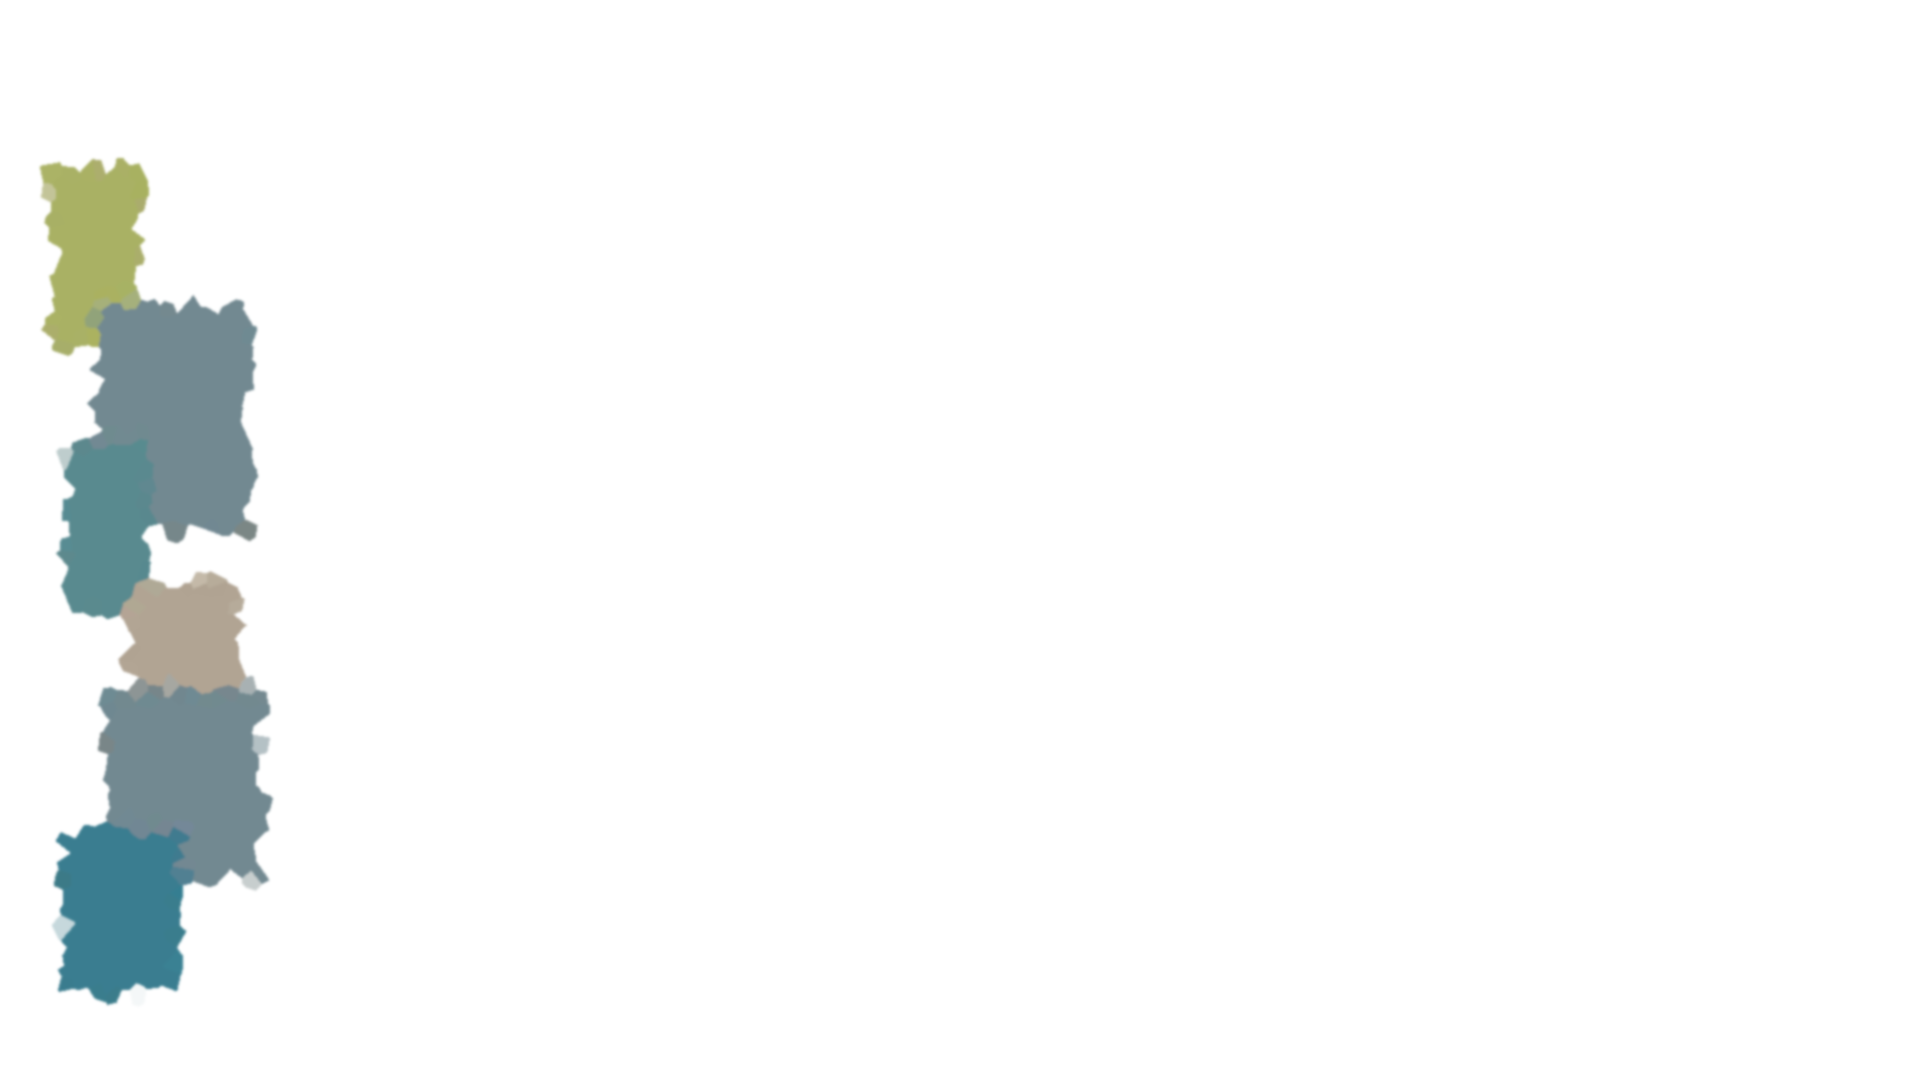
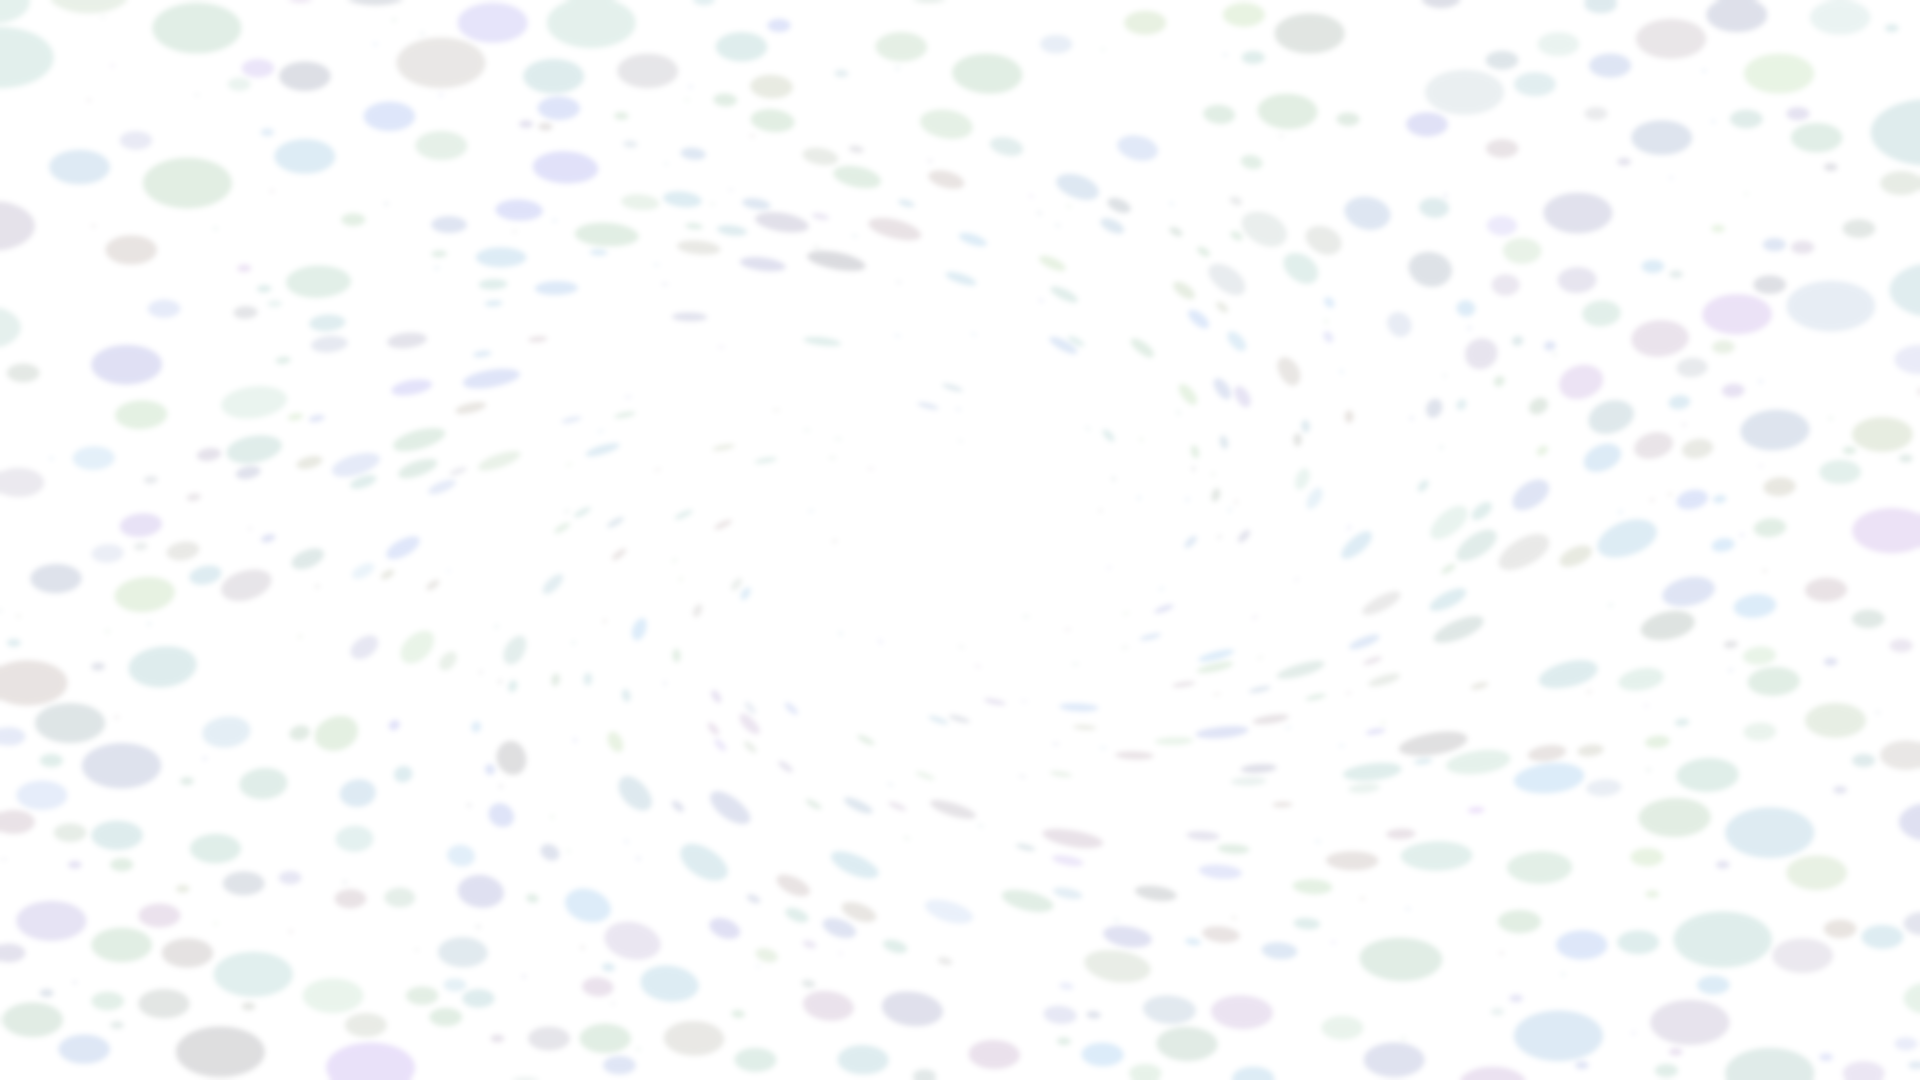
Backgrounds complete

diff --git a/dist/theme/sky.css b/dist/theme/sky.css
@@ -1,7 +1,7 @@
 @import "https://fonts.googleapis.com/css?family=Quicksand:400,700,400italic,700italic";
 @import "https://fonts.googleapis.com/css?family=Open+Sans:400italic,700italic,400,700";
 :root {
-  --r-background: radial-gradient(#f7fbfc, #add9e4);
+  --r-background: radial-gradient(#f7fbfc, #8acbea);
   --r-background-color: #f7fbfc;
   --r-main-font: "Open Sans", sans-serif;
   --r-main-font-size: 40px;
@@ -30,16 +30,16 @@
   --r-overlay-element-fg-color: 240 240 240;
   --l-lesson-common-background-color: #fff;
   --l-lesson-common-background-image:
-    url("../../images/sky-background.png"), radial-gradient(#f7fbfc, #add9e4);
+    url("../../images/sky-background.png"), radial-gradient(#f7fbfc, #8acbea);
   --l-lesson-welcome-background-color: #fff;
   --l-lesson-welcome-background-image:
-    url("../../images/sky-welcome.png"), radial-gradient(#f7fbfc, #add9e4);
+    url("../../images/sky-welcome.png"), radial-gradient(#f7fbfc, #8acbea);
   --l-lesson-title-background-color: #fff;
   --l-lesson-title-background-image:
-    url("../../images/sky-title.png"), radial-gradient(#f7fbfc, #add9e4);
+    url("../../images/sky-title.png"), radial-gradient(#f7fbfc, #8acbea);
   --l-lesson-section-background-color: #fff;
   --l-lesson-section-background-image:
-    url("../../images/sky-section.png"), radial-gradient(#f7fbfc, #add9e4);
+    url("../../images/sky-section.png"), radial-gradient(#f7fbfc, #8acbea);
   --l-passage-font: "Open Sans", sans-serif;
   --l-passage-color: #222;
   --l-passage-background-color: #e5f2fa;

diff --git a/dist/theme/white-roboto.css b/dist/theme/white-roboto.css
@@ -53,9 +53,17 @@
   --r-heading-line-height: 1.2;
   --r-heading-letter-spacing: normal;
   --r-heading-text-transform: none;
-  --r-heading-text-shadow: none;
+  --r-heading-text-shadow:
+    0em 0em 0.2em white,
+    0em 0em 0.2em white,
+    0em 0em 0.2em white,
+    0em 0em 0.2em white;
   --r-heading-font-weight: 600;
-  --r-heading1-text-shadow: none;
+  --r-heading1-text-shadow:
+    0em 0em 0.2em white,
+    0em 0em 0.2em white,
+    0em 0em 0.2em white,
+    0em 0em 0.2em white;
   --r-heading1-size: 2.5em;
   --r-heading2-size: 1.6em;
   --r-heading3-size: 1.3em;

diff --git a/index.html b/index.html
@@ -10,7 +10,7 @@
 
     <link rel="stylesheet" href="dist/reset.css" />
     <link rel="stylesheet" href="dist/reveal.css" />
-    <link rel="stylesheet" href="dist/theme/serif.css" />
+    <link rel="stylesheet" href="dist/theme/white-roboto.css" />
     <link rel="stylesheet" href="styles/slideshow.css" />
   </head>
   <body>
